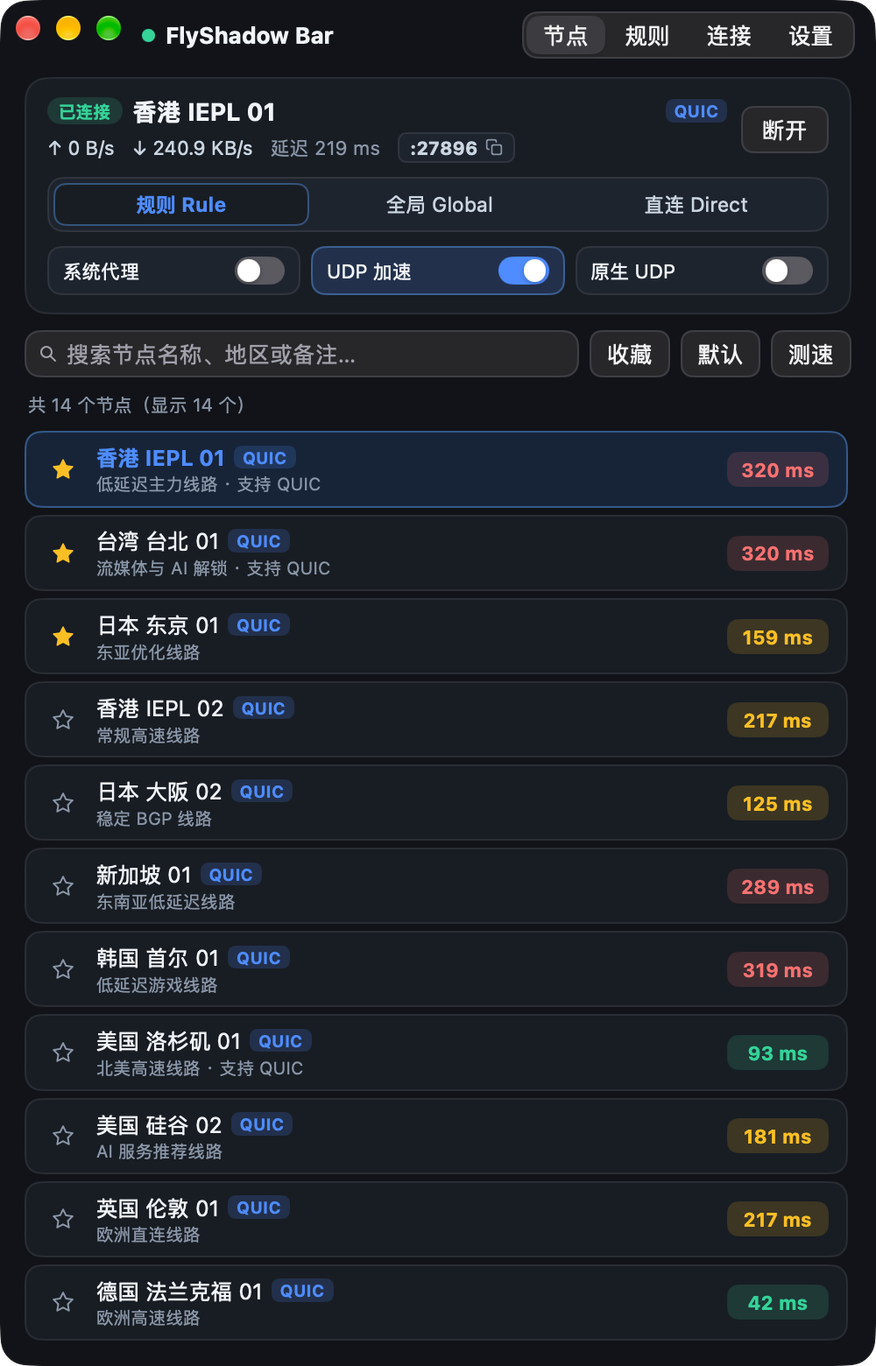
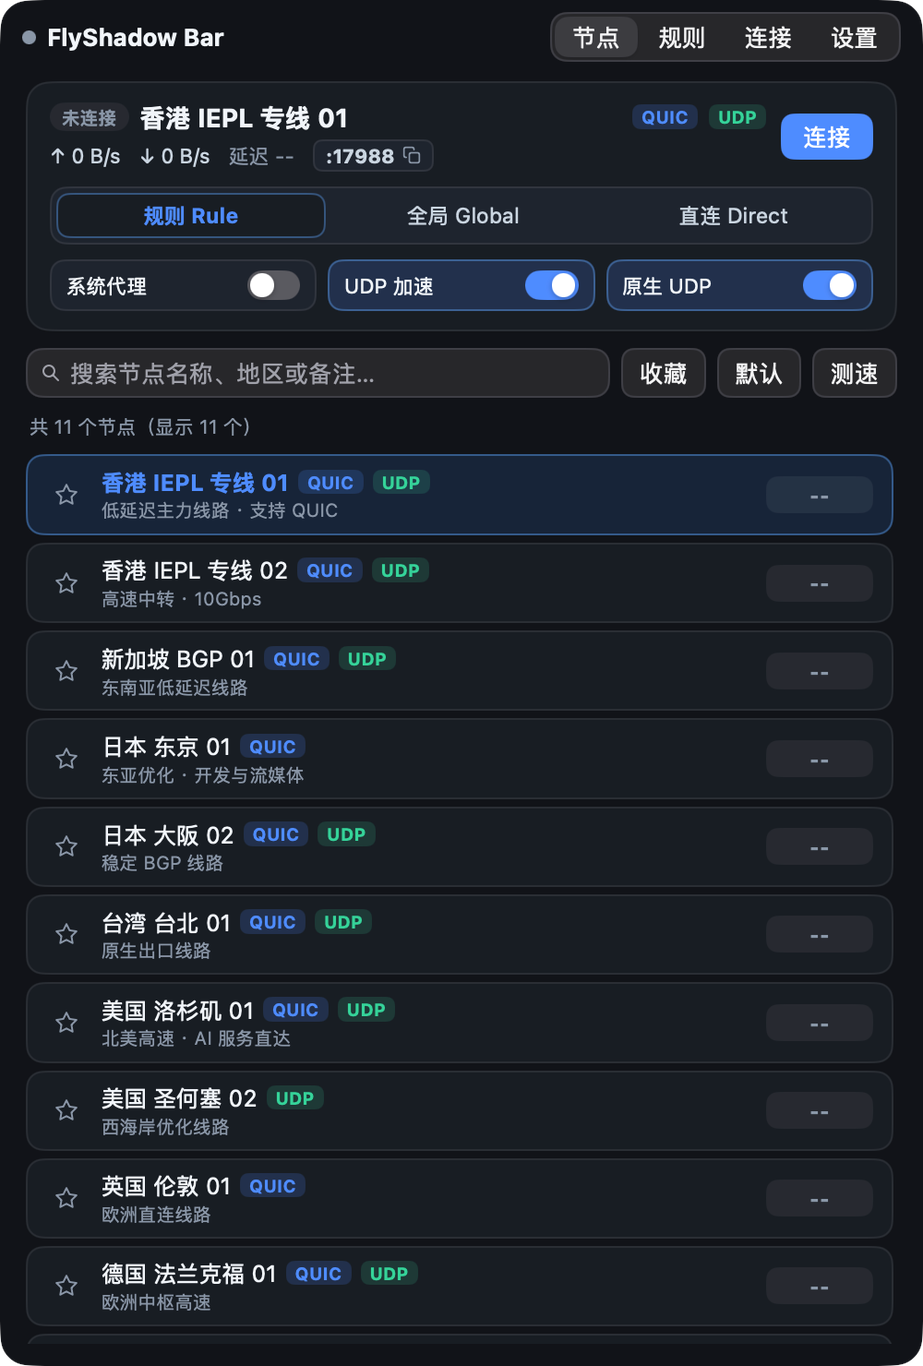
feat: 改为无红绿灯原生托盘弹窗，新增每30分钟自动静默增量更新与顶部重启提示

Changed region(s): [[0.0, 0.0, 0.9863, 0.9839], [0.9863, 0.9839, 1.0, 1.0]]

diff --git a/internal/ui/app.go b/internal/ui/app.go
@@ -37,10 +37,12 @@ type App struct {
 
 	updateProgressReset func()
 
-	quitting  bool
-	unsub     func()
-	stopCh    chan struct{}
-	closeOnce sync.Once
+	quitting     bool
+	pinWindow    bool // 显式 --show 启动时不随失焦自动收起
+	lastBlurHide time.Time
+	unsub        func()
+	stopCh       chan struct{}
+	closeOnce    sync.Once
 }
 
 // Run 启动单进程 GUI/托盘桌面应用，阻塞直至应用退出。
@@ -145,6 +147,7 @@ func (a *App) onReady(opts RunOptions) {
 	// 仅在显式传 --show 且非开机自启时立即弹出。
 	hidden := opts.StartHidden || mygo.App.WasOpenedAtLogin()
 	if !hidden {
+		a.pinWindow = true
 		a.ensureWindow()
 		a.showWindow()
 	}
@@ -174,17 +177,40 @@ func (a *App) onReady(opts RunOptions) {
 	// 仅在窗口打开且位于「连接」页时按需轮询活跃连接，平时零额外开销
 	go a.connectionsPollLoop()
 
-	// 绑定 MyGo 签名增量更新的后台通知与进度节流回调
+	// 绑定 MyGo 签名增量更新的后台自动巡检、静默下载与就绪回调
 	if a.updates != nil {
 		a.updates.availableFn = func(st UpdateStatus) {
 			mygo.RunOnMain(func() {
 				if a.vm != nil {
+					a.vm.applyNativeUpdateStatus(st)
+					a.vm.updateDownloading = true
+				}
+				if a.win != nil && a.win.IsVisible() {
+					a.win.Invalidate()
+				}
+				a.refreshTrayMenu()
+			})
+		}
+		a.updates.readyFn = func(st UpdateStatus) {
+			mygo.RunOnMain(func() {
+				if a.vm != nil {
+					a.vm.updateDownloading = false
 					a.vm.applyNativeUpdateStatus(st)
 				}
 				if a.win != nil && a.win.IsVisible() {
 					a.win.Invalidate()
 				}
 				a.refreshTrayMenu()
+			})
+		}
+		a.updates.installFailFn = func() {
+			mygo.RunOnMain(func() {
+				if a.vm != nil {
+					a.vm.updateDownloading = false
+				}
+				if a.win != nil && a.win.IsVisible() {
+					a.win.Invalidate()
+				}
 			})
 		}
 		fn, reset := newThrottledUpdateProgress(func(downloaded, total int64) {
@@ -212,16 +238,18 @@ func (a *App) ensureWindow() {
 		a.vm.snap = a.eng.Snapshot()
 	}
 	a.win = mygo.NewWindow(mygo.WindowOptions{
-		Title:         "FlyShadow Bar",
-		Width:         500,
-		Height:        780,
-		MinWidth:      440,
-		MinHeight:     580,
-		StateKey:      "main-v2",
-		Hidden:        true,
-		SkipTaskbar:   true,
-		TitleBarStyle: mygo.TitleBarHidden,
-		Content:       ui.View(a.vm.render),
+		Title:             "FlyShadow Bar",
+		Width:             500,
+		Height:            740,
+		MinWidth:          440,
+		MinHeight:         560,
+		StateKey:          "popover-v3",
+		Hidden:            true,
+		SkipTaskbar:       true,
+		AlwaysOnTop:       true,
+		TitleBarStyle:     mygo.TitleBarHidden,
+		HideWindowButtons: true,
+		Content:           ui.View(a.vm.render),
 	})
 
 	// 点击窗口关闭按钮时隐藏至托盘而非退出，仅在真正退出应用时放行关闭
@@ -231,6 +259,18 @@ func (a *App) ensureWindow() {
 			a.win.Hide()
 			a.refreshTrayMenu()
 		}
+	})
+	// 托盘弹窗体验：点击面板外部自动收起（在「连接」监控页、更新下载中或显式 --show 时保留不收起）
+	a.win.OnBlur(func() {
+		if a.quitting || a.pinWindow || a.win == nil || !a.win.IsVisible() {
+			return
+		}
+		if a.vm != nil && (a.vm.activeTab == 2 || a.vm.updateDownloading) {
+			return
+		}
+		a.lastBlurHide = time.Now()
+		a.win.Hide()
+		a.refreshTrayMenu()
 	})
 	a.win.OnShow(func() { a.refreshTrayMenu() })
 	a.win.OnHide(func() { a.refreshTrayMenu() })
@@ -332,6 +372,10 @@ func (a *App) toggleWindow() {
 func (a *App) toggleWindowFromTray() {
 	if a.isWindowVisible() {
 		a.hideWindow()
+		return
+	}
+	// 点击菜单栏图标会先触发 OnBlur 收起面板，250ms 内忽略紧随其后的 OnClick 避免闪现重开
+	if time.Since(a.lastBlurHide) < 250*time.Millisecond {
 		return
 	}
 	a.ensureWindow()

diff --git a/internal/ui/updates.go b/internal/ui/updates.go
@@ -23,6 +23,8 @@ import (
 const (
 	updateProgressThrottle = 50 * time.Millisecond
 	updateIdleTimeout      = time.Minute
+	updateInitialDelay     = 5 * time.Second
+	updateCheckInterval    = 30 * time.Minute
 )
 
 // updateProgressNow 允许单测替换时钟。
@@ -62,10 +64,14 @@ type UpdateManager struct {
 	installFn func(context.Context, *mygo.Update, func(int64, int64)) error
 	restartFn func()
 
-	availableFn func(UpdateStatus)
-	progressFn  func(downloaded, total int64)
+	availableFn   func(UpdateStatus)
+	readyFn       func(UpdateStatus)
+	installFailFn func()
+	progressFn    func(downloaded, total int64)
 
-	idleTimeout time.Duration
+	idleTimeout   time.Duration
+	initialDelay  time.Duration
+	checkInterval time.Duration
 }
 
 func newUpdateManager(restartFn func()) *UpdateManager {
@@ -75,8 +81,10 @@ func newUpdateManager(restartFn func()) *UpdateManager {
 		}
 	}
 	return &UpdateManager{
-		restartFn:   restartFn,
-		idleTimeout: updateIdleTimeout,
+		restartFn:     restartFn,
+		idleTimeout:   updateIdleTimeout,
+		initialDelay:  updateInitialDelay,
+		checkInterval: updateCheckInterval,
 	}
 }
 
@@ -301,27 +309,79 @@ func (u *UpdateManager) Restart() error {
 	return nil
 }
 
-// StartBackground 在应用就绪后周期性静默检查更新（退出时随 stopCh 停止）。
+// StartBackground 在启动 5 秒后首次检查更新，之后每 30 分钟巡检一次；
+// 发现新版本后由于增量包极小，直接在后台静默完成增量下载与签名安装，就绪后通过 readyFn 提示重启。
 func (u *UpdateManager) StartBackground(stopCh <-chan struct{}) {
 	if !u.enabled() {
 		return
 	}
+	initDelay := u.initialDelay
+	if initDelay <= 0 {
+		initDelay = updateInitialDelay
+	}
+	interval := u.checkInterval
+	if interval <= 0 {
+		interval = updateCheckInterval
+	}
 	go func() {
-		timer := time.NewTimer(15 * time.Second)
+		timer := time.NewTimer(initDelay)
 		defer timer.Stop()
 		for {
 			select {
 			case <-stopCh:
 				return
 			case <-timer.C:
-				status, err := u.Check(context.Background())
-				if err == nil && status.Available != "" && !status.Installed && u.availableFn != nil {
-					u.availableFn(status)
+				if u.checkAndAutoInstall(stopCh) {
+					// 新版本已安装就绪，等待用户重启生效即可，无需继续轮询
+					return
 				}
-				timer.Reset(24 * time.Hour)
+				timer.Reset(interval)
 			}
 		}
 	}()
+}
+
+// checkAndAutoInstall 执行一轮静默检查，若发现新版本则自动后台下载安装增量更新。
+// 返回 true 表示更新已安装就绪。
+func (u *UpdateManager) checkAndAutoInstall(stopCh <-chan struct{}) bool {
+	ctx, cancel := context.WithCancel(context.Background())
+	defer cancel()
+	go func() {
+		select {
+		case <-stopCh:
+			cancel()
+		case <-ctx.Done():
+		}
+	}()
+
+	status, err := u.Check(ctx)
+	if err != nil {
+		return false
+	}
+	if status.Installed {
+		if u.readyFn != nil {
+			u.readyFn(status)
+		}
+		return true
+	}
+	if status.Available == "" {
+		return false
+	}
+	if u.availableFn != nil {
+		u.availableFn(status)
+	}
+
+	installedStatus, err := u.Install(ctx)
+	if err != nil || !installedStatus.Installed {
+		if u.installFailFn != nil {
+			u.installFailFn()
+		}
+		return false
+	}
+	if u.readyFn != nil {
+		u.readyFn(installedStatus)
+	}
+	return true
 }
 
 // installWithTimeout 在下载长时间无字节进展时取消请求，避免卡死在慢连接上。

diff --git a/internal/ui/window.go b/internal/ui/window.go
@@ -158,7 +158,7 @@ func paletteFor(dark bool) palette {
 
 func (vm *viewModel) render(c *ui.Context) {
 	if vm.app != nil {
-		if c.Shortcut(ui.Cmd, ui.KeyW) {
+		if c.Shortcut(ui.Cmd, ui.KeyW) || c.Shortcut(0, ui.KeyEscape) {
 			vm.app.hideWindow()
 		}
 		c.OnShortcut(ui.Cmd, ui.KeyQ, mygo.App.Quit)
@@ -180,6 +180,9 @@ func (vm *viewModel) render(c *ui.Context) {
 	ui.Column(c).Fill().Background(p.canvas).Children(func() {
 		vm.renderTitleBar(c, p)
 		ui.Column(c).Grow(1).Padding(4, 14, 12, 14).Gap(9).Children(func() {
+			if vm.updateInstalled && vm.updateAvailable != "" {
+				vm.renderUpdateReadyBanner(c, p)
+			}
 			vm.renderCompactOverview(c, p)
 			switch vm.activeTab {
 			case 0:
@@ -213,6 +216,23 @@ func (vm *viewModel) renderTitleBar(c *ui.Context, p palette) {
 			if vm.activeTab == 2 && prevTab != 2 && vm.app != nil {
 				go vm.app.refreshConnections()
 			}
+		}
+	})
+}
+
+// renderUpdateReadyBanner 当后台静默增量更新安装完成后，在弹窗最醒目的顶部位置提示用户一键重启生效。
+func (vm *viewModel) renderUpdateReadyBanner(c *ui.Context, p palette) {
+	ui.Row(c).Padding(8, 12).Gap(10).Radius(11).AlignItems(ui.Center).
+		Background(p.successSoft).Border(1, p.success).Children(func() {
+		ui.Box(c).Size(8, 8).Radius(99).Background(p.success)
+		ui.Column(c).Grow(1).Gap(1).Children(func() {
+			ui.Text(c, fmt.Sprintf("新版本 %s 已下载就绪", vm.updateAvailable)).
+				FontSize(12.5).Bold().TextColor(p.success)
+			ui.Text(c, "增量更新已验签完成，重启后即可生效").
+				FontSize(10.5).TextColor(p.textSecondary)
+		})
+		if ui.PrimaryButton(c.Key("btn-banner-restart"), "重启更新").Padding(5, 12).Radius(7).Clicked() {
+			vm.restartForUpdate()
 		}
 	})
 }

diff --git a/internal/ui/updates_test.go b/internal/ui/updates_test.go
@@ -148,3 +148,36 @@ func TestDirUpdateSource(t *testing.T) {
 		t.Fatalf("Open 文件名映射异常: %q", string(b2))
 	}
 }
+
+func TestUpdateManagerAutoDownloadReady(t *testing.T) {
+	mgr := newUpdateManager(nil)
+	mgr.versionFn = func() string { return "0.2.0" }
+	mgr.enabledFn = func() bool { return true }
+	mgr.initialDelay = 10 * time.Millisecond
+	mgr.checkInterval = 20 * time.Millisecond
+	mgr.checkFn = func(context.Context) (*mygo.Update, error) {
+		return &mygo.Update{Version: "0.2.2", Notes: "### 0.2.2\n\n自动静默增量更新"}, nil
+	}
+	mgr.installFn = func(_ context.Context, _ *mygo.Update, progress func(int64, int64)) error {
+		progress(86000, 86000)
+		return nil
+	}
+
+	readyCh := make(chan UpdateStatus, 1)
+	mgr.readyFn = func(st UpdateStatus) {
+		readyCh <- st
+	}
+
+	stopCh := make(chan struct{})
+	defer close(stopCh)
+	mgr.StartBackground(stopCh)
+
+	select {
+	case st := <-readyCh:
+		if !st.Installed || st.Available != "0.2.2" {
+			t.Fatalf("自动增量安装状态异常: %+v", st)
+		}
+	case <-time.After(2 * time.Second):
+		t.Fatalf("等待后台自动增量更新就绪超时")
+	}
+}

diff --git a/internal/ui/window_test.go b/internal/ui/window_test.go
@@ -101,6 +101,14 @@ func TestMainViewRendersCleanly(t *testing.T) {
 		t.Fatalf("settings tab did not render expected content, activeTab=%d", vm.activeTab)
 	}
 
+	// 验证后台增量更新就绪后顶部醒目「重启更新」横幅渲染
+	vm.updateInstalled = true
+	vm.updateAvailable = "0.2.2"
+	ttReady := ui.NewTester(vm.render, 500, 780)
+	if !ttReady.HasText("新版本 0.2.2 已下载就绪") || !ttReady.HasText("重启更新") {
+		t.Fatalf("update ready banner missing expected text, got: %v", ttReady.Texts())
+	}
+
 	// 验证图标 PNG 生成有效
 	pngConn := makeTrayIconPNG(true)
 	pngIdle := makeTrayIconPNG(false)

diff --git a/README.md b/README.md
@@ -48,14 +48,14 @@
 ## 核心特性
 
 - **单进程直连原生核心库**：macOS 通过 `purego`、Windows 通过 `x/sys/windows` 以零 CGO 方式加载官方底层动态库（`libflyshadow_core_lib.dylib` / `flyshadow_core_lib.dll`），自动加载 GeoIP 与分流规则。
-- **菜单栏与系统托盘极速控制**：启动默认静默驻留 macOS 菜单栏（隐藏 Dock 图标，可选等宽字体实时速率显示）与 Windows 系统托盘（隐藏任务栏占位）；**左键点击图标直接在图标附近弹出 / 收起面板，右键弹出快捷菜单**（模式切换、节点子菜单、系统代理、UDP 加速、原生 UDP、一键测速与安全退出），macOS 与 Windows 交互一致。
+- **菜单栏与系统托盘原生弹窗**：启动默认静默驻留 macOS 菜单栏（隐藏 Dock 图标，可选等宽字体实时速率显示）与 Windows 系统托盘（隐藏任务栏占位），不提前分配窗口对象；**左键点击图标直接在图标附近弹出无红绿灯/无边框按钮的原生圆角面板**（支持按 `Esc` 或点击面板外部自动收起），**右键弹出快捷菜单**（模式切换、节点子菜单、系统代理、UDP 加速、原生 UDP、一键测速与安全退出），macOS 与 Windows 交互一致。
 - **紧凑高容量原生 UI**：浅色 / 深色 / 跟随系统外观自适应；单屏直接展示 11+ 节点，支持搜索、收藏、按延迟排序、并发测速与一键复制终端代理环境变量。
 - **自定义规则热管理**：完整兼容官方 `~/.FlyShadow/config.json` 中的 `customRuleList`、`customRuleActiveLabels` 与全部 13 种官方匹配类型，支持极速添加、行内编辑、启停、删除与标签分组切换，修改后**无需断开隧道立即热生效**。
 - **实时连接监控与一键加规则闭环**：对接核心库 `get_tunnel_mapper_info_json` 与 `close_connect`，查看实时活跃连接的目标域名、进程名、路由结果与流量，可一键将任意目标加入直连/代理规则并踢掉旧连接使新规则即刻生效。
 - **单二进制内置 CLI**：无参数运行即启动常驻 GUI；携带子命令时自动发现并通过本机回环 Bearer Token 控制接口操控正在运行的实例，支持终端与 SSH 远程运维，全部命令支持 `--json` 输出。
 - **跨平台系统代理与安全退出**：支持 macOS / Windows 系统代理一键开关、启动连上后自动开启（同步 `autoSetSysProxyOnStartUp`），退出时自动关闭系统代理并安全断开隧道。
 - **无损配置写回**：按 `map[string]json.RawMessage` 原子写回 `config.json`，完整保留账号 token、订阅密码等所有原生字段；本客户端自身外观偏好独立保存在 `flyshadow-bar.prefs.json`。
-- **签名增量更新**：基于 MyGo 原生更新器与 Ed25519 签名校验，应用内自动检测并优先下载二进制增量补丁（`.delta`）一键替换重启，大幅减少更新下载体积；同时保留 CLI `update` 检查与下载能力。
+- **自动静默增量更新**：基于 MyGo 原生更新器与 Ed25519 签名校验，启动后及每 30 分钟自动检测新版本，发现更新时直接在后台静默下载极小的二进制增量补丁（`.delta`）并完成验签安装，就绪后在弹窗顶部醒目位置一键「重启更新」；同时保留 CLI `fsbar update` 手动检查与下载能力。
 
 ## 自动查找规则
 

diff --git a/AGENTS.md b/AGENTS.md
@@ -19,7 +19,9 @@
 ## 架构与构建约束
 
 - **全程零 CGO（`CGO_ENABLED=0`）**：所有构建、测试与交叉编译必须保持 `CGO_ENABLED=0`，不得引入 C 源码、CGO 依赖或需要 C 编译器的库；确保可跨架构构建 `darwin/arm64`、`darwin/amd64` 与 `windows/amd64`。
-- **纯 Go 原生 GPU UI 与 MyGo 打包**：桌面端基于 `github.com/egoist/mygo`（macOS Metal / Windows Direct3D 11）与原生系统托盘实现，严禁引入 Electron、WebView、Node.js 或网页前端构建链。MyGo CLI 由 `go.mod` 的 `tool` 指令固定，通过 `go tool mygo` 调用，打包与增量更新元数据配置在 `mygo.json`。正式版本号由发版流程从 Git 标签注入 `mygo.json`，仓库内 `mygo.json` 的 `version` 仅用于本地开发构建。
+- **纯 Go 原生 GPU UI 与 MyGo 打包**：桌面端基于 `github.com/egoist/mygo`（macOS Metal / Windows Direct3D 11）与原生系统托盘实现，严禁引入 Electron、WebView、Node.js 或网页前端构建链。MyGo CLI 由 `go.mod` 的 `tool` 指令固定，通过 `go tool mygo` 调用，应用图标（`resources/icon.png`，通过 `resourcesExclude` 排除冗余原图拷贝）、打包与增量更新元数据配置在 `mygo.json`。正式版本号由发版流程从 Git 标签注入 `mygo.json`，仓库内 `mygo.json` 的 `version` 仅用于本地开发构建。
+- **菜单栏 / 托盘弹窗与跨平台一致性**：启动默认静默驻留托盘并按需懒创建主窗口（仅传 `--show` 时启动弹窗）；主窗口使用 `TitleBarStyle: mygo.TitleBarHidden` + `HideWindowButtons: true` + `SkipTaskbar: true` + `AlwaysOnTop: true`（在 macOS 隐藏红绿灯、在 Windows 隐藏标题按钮的同时保留双端原生圆角与阴影），点击托盘图标在图标附近弹出/收起，支持 `Esc` 与失焦自动收起（连接监控页、更新下载中及 `--show` 模式不自动收起）；macOS 保持常驻 `Menu: nil` 并在 `OnRightClick` 临时弹出快捷菜单，Windows 保持 `Menu` 绑定且 `OnClick` 弹窗，确保双端左键弹窗、右键菜单行为完全一致。
+- **自动静默增量更新**：`internal/ui/updates.go` 在启动 5 秒后首次检查并每 30 分钟周期性静默检查，发现新版本后自动在后台下载并安装签名 `.delta` 补丁，安装就绪后通过弹窗顶部醒目横幅（`renderUpdateReadyBanner`）与托盘菜单提示一键重启生效。
 - **切勿覆盖 `mygo.App.Version()`**：`mygo build` 通过 `-ldflags` 注入当前版本号供 `mygo.Updater` 匹配增量补丁；启动时仅在 `mygo.App.Version()` 为空或 `"0.0.0"` 时才回退调用 `mygo.App.SetVersion`。
 - **单二进制双形态（CLI 名称 `fsbar`）**：入口位于 `cmd/fsbar/`，无参数或仅带 GUI 标志（`--gui`/`--hidden`/`--config`/`--core-lib`/`--no-connect`/`--no-auto-sysproxy`/`-psn_*`）时启动常驻 GUI；携带子命令时通过本地回环 Bearer Token 控制接口（`~/.FlyShadow/flyshadow-bar.run.json`，权限 `0600`）与运行中实例通信，且所有子命令均支持 `fsbar help <子命令>` 与 `--help`。
 - **包职责划分**：

diff --git a/.github/release-notes.md b/.github/release-notes.md
@@ -3,7 +3,7 @@
 - **macOS（Apple Silicon / M 系列）**：下载 `flyshadow-bar-*-arm64.dmg`，打开后将 `FlyShadow Bar.app` 拖入「应用程序」文件夹即可运行；启动后默认静默驻留顶部菜单栏，**左键点击图标弹出/收起面板，右键打开快捷菜单**（命令行工具 `fsbar` 可软链至应用内的 `FlyShadow Bar.app/Contents/MacOS/FlyShadow Bar`，例如 `ln -sf "/Applications/FlyShadow Bar.app/Contents/MacOS/FlyShadow Bar" ~/.local/bin/fsbar`）。
 - **macOS（Intel / x64）**：下载 `flyshadow-bar-*-amd64.dmg`，打开后拖入「应用程序」文件夹运行。
 - **Windows（x64）**：下载 `flyshadow-bar-setup-*-amd64.exe` 安装运行；启动后默认静默驻留任务栏右下角系统托盘，**左键点击托盘图标弹出/收起面板，右键打开快捷菜单**。
-- **应用内增量更新**：从正式安装包运行后，在「设置 → 订阅、环境与更新」中支持 **Ed25519 签名验证与二进制增量更新（Delta Update）**，仅下载版本间的差异补丁即可一键更新并重启，大幅节省流量。
+- **自动静默增量更新**：从正式安装包运行后，启动与每 30 分钟会自动检测新版本并在后台静默下载 **Ed25519 签名二进制增量补丁（`.delta`）**，安装就绪后在弹窗顶部醒目提示一键「重启更新」，无需手动下载整包。
 - 首次启动会自动读取官方 `~/.FlyShadow/config.json`、对应架构的原生核心库（`libflyshadow_core_lib.dylib` / `flyshadow_core_lib.dll`）及 GeoIP 数据库，无需额外配置。
 - 可通过 `checksums.txt` 核验所有安装包、归档与增量补丁的 SHA-256 校验和。
 
